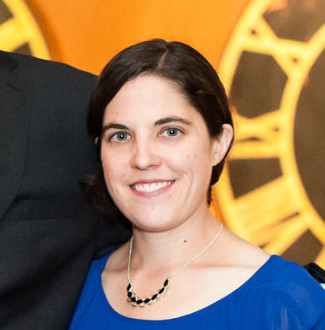
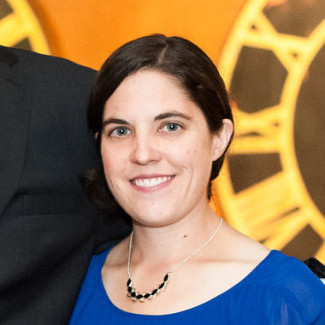
add cropped bec-portrait to match size of RTVbike

diff --git a/style.css b/style.css
@@ -187,10 +187,6 @@ div.overlay-image {
     opacity: 1;
 }
 
-img#rtv-photo {
-    padding: .25em;
-}
-
 h2 {
 	font-weight: normal;
 	text-align: center;
